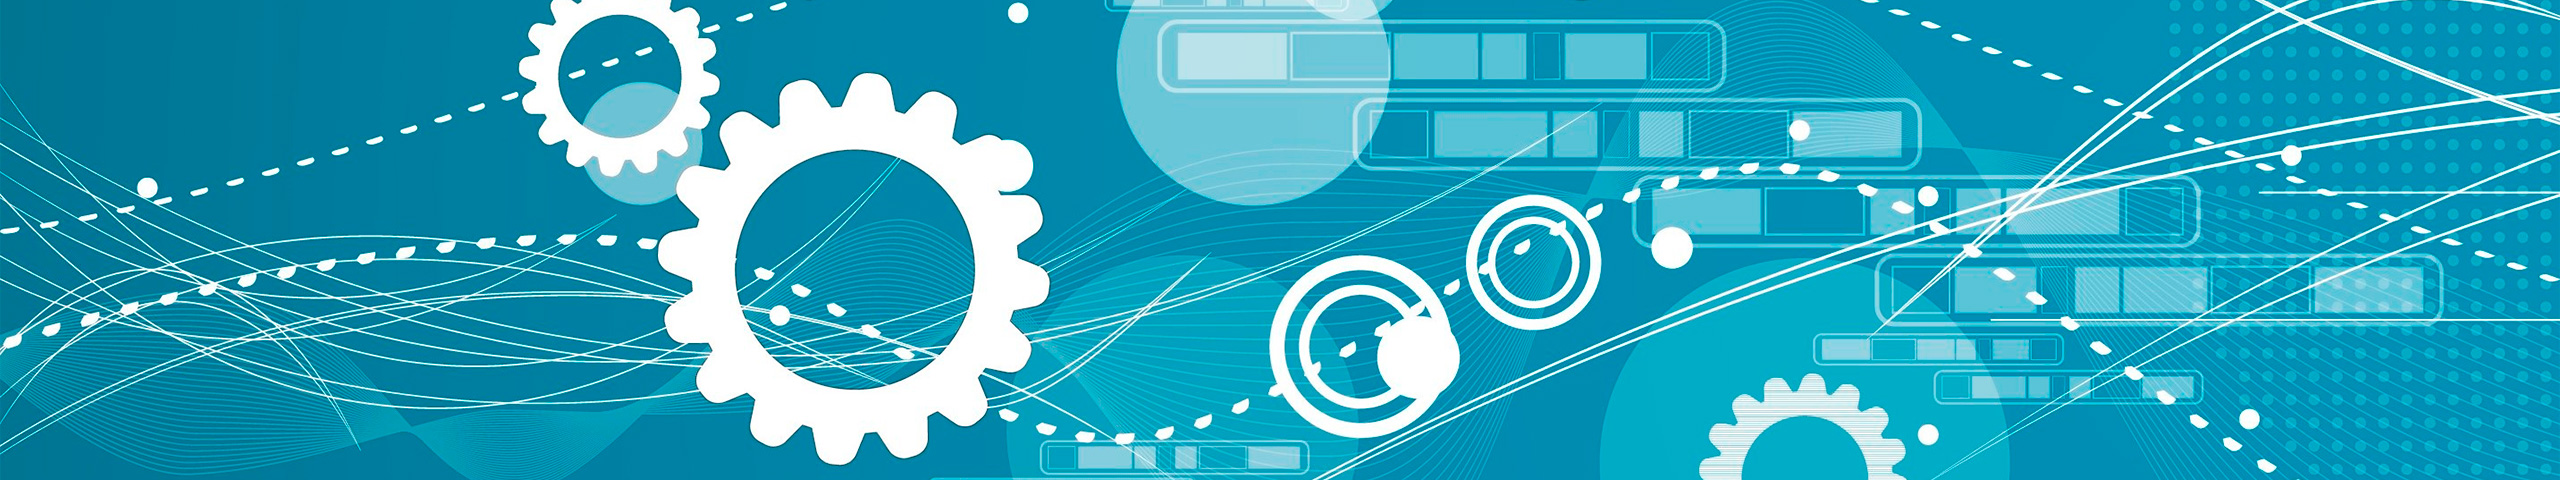
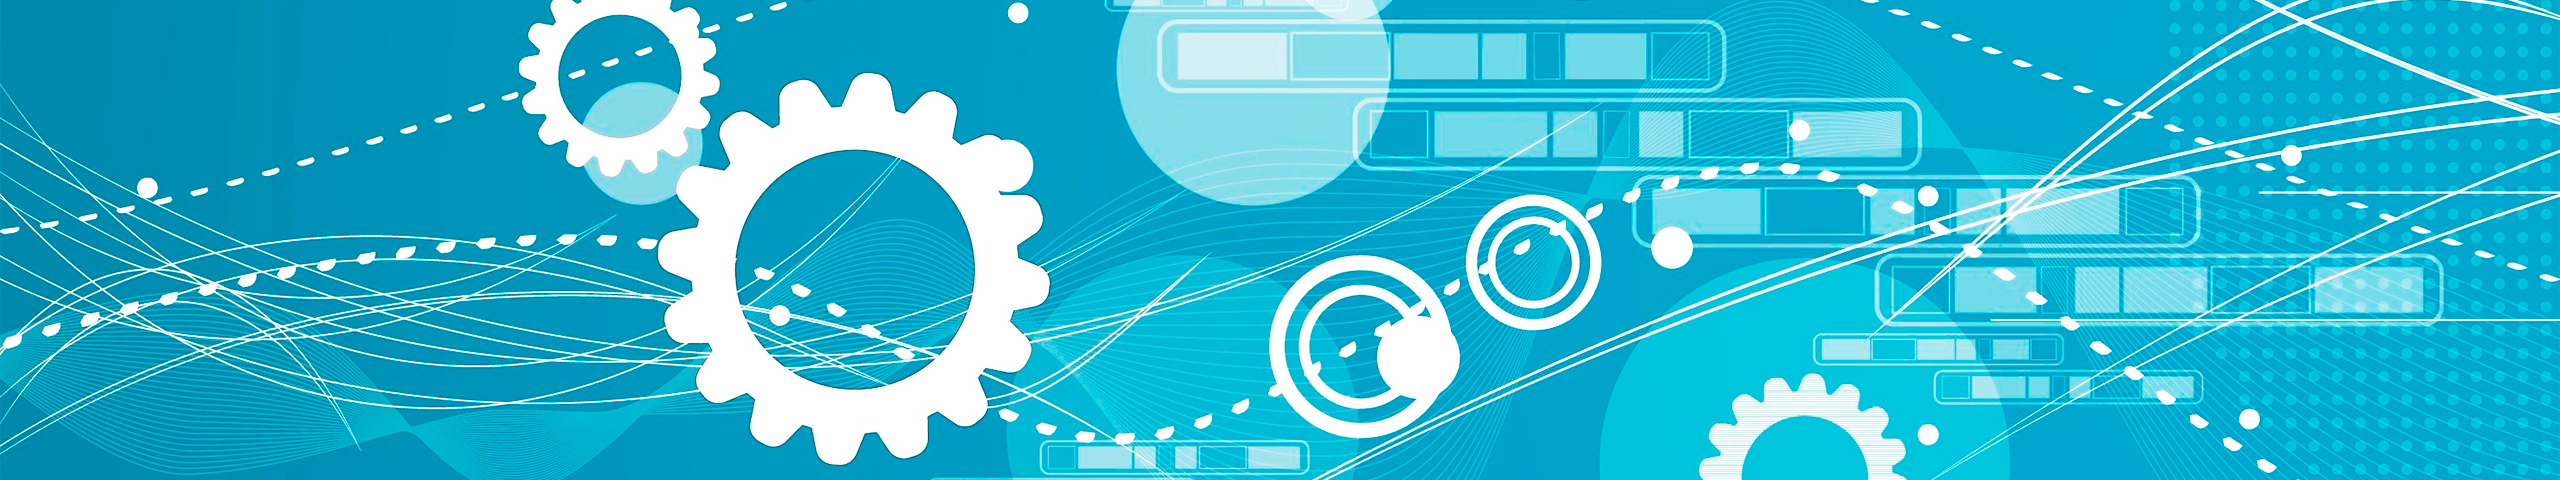
Updated showcase images.

diff --git a/about.html b/about.html
@@ -3,7 +3,7 @@ layout: default
 title:  About Danitso
 ---
 
-<div class="danitso-showcase-container danitso-showcase-container-default">
+<div class="danitso-showcase-container danitso-showcase-container-about">
     <div class="danitso-showcase-overlay"></div>
 
     <div class="container">

diff --git a/_scss/danitso/_showcase.scss b/_scss/danitso/_showcase.scss
@@ -13,6 +13,10 @@
     background-image: url('../images/showcase-default.jpg');
 }
 
+.danitso-showcase-container.danitso-showcase-container-about {
+    background-image: url('../images/showcase-about.jpg');
+}
+
 .danitso-showcase-overlay {
     width: 50%;
     height: 100%;
